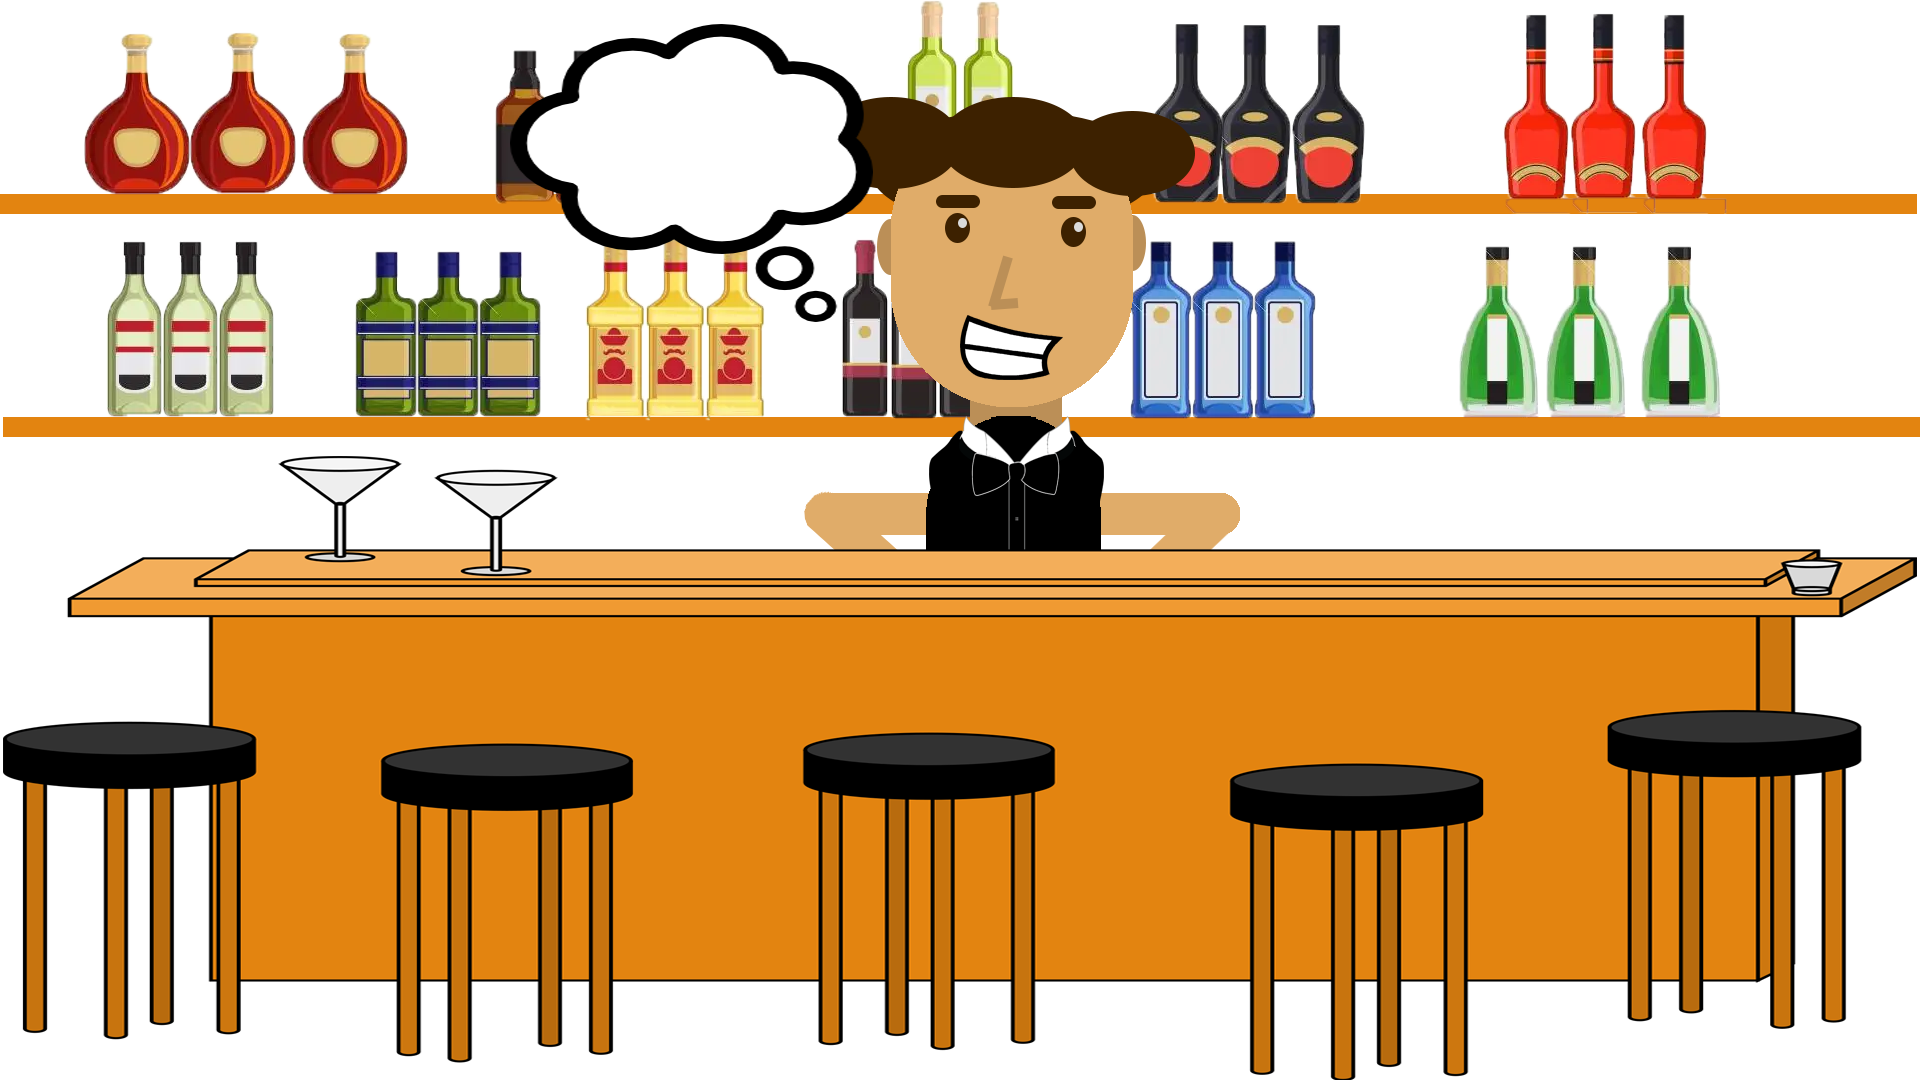
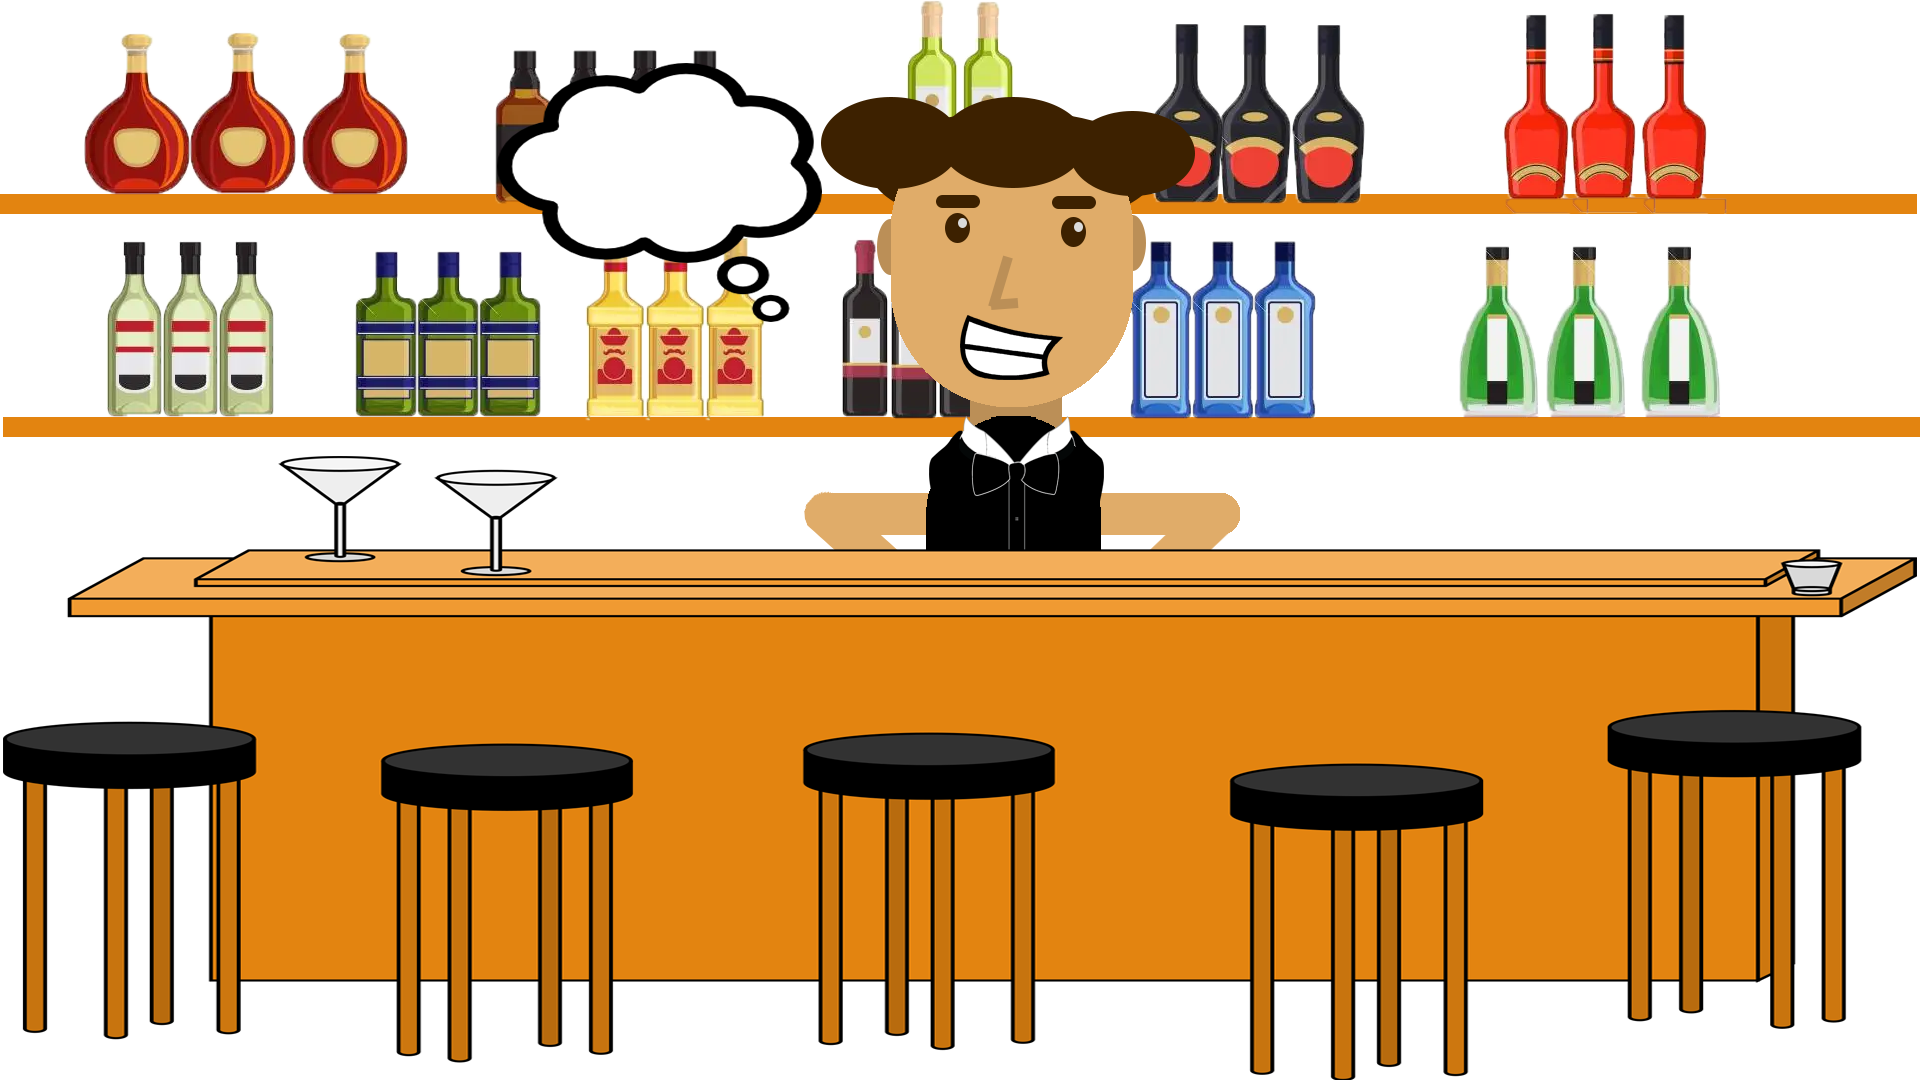
add animations

Changed region(s): [[0.25, 0.0, 0.4688, 0.3056]]

diff --git a/index.js b/index.js
@@ -19,25 +19,23 @@ drinkContainer.addEventListener('mousedown', (e) => {
     drinkContainer.classList.add('active');
     startX = e.pageX - drinkContainer.offsetLeft;
     scrollLeft = drinkContainer.scrollLeft;
-    });
-    drinkContainer.addEventListener('mouseleave', () => {
+});
+drinkContainer.addEventListener('mouseleave', () => {
     isDown = false;
     drinkContainer.classList.remove('active');
-    });
-    drinkContainer.addEventListener('mouseup', () => {
+});
+drinkContainer.addEventListener('mouseup', () => {
     isDown = false;
     drinkContainer.classList.remove('active');
-    });
-    drinkContainer.addEventListener('mousemove', (e) => {
-    if(!isDown) return;
+});
+drinkContainer.addEventListener('mousemove', (e) => {
+    if (!isDown) return;
     e.preventDefault();
     const x = e.pageX - drinkContainer.offsetLeft;
     const walk = (x - startX) * 3; //scroll-fast
     drinkContainer.scrollLeft = scrollLeft - walk;
     //   console.log(walk);
-    });
-
-
+});
 
 function searchDrink() { // search by title
     fetch(`https://www.thecocktaildb.com/api/json/v1/1/search.php?s=${inputText.value}`) // fetchs json
@@ -46,9 +44,6 @@ function searchDrink() { // search by title
         .catch(err => console.log("Search Failed: " + err))
     drinkContainer.innerHTML = ""; // reset drink container
 }
-
-
-
 
 function randomize() { // fetchs a random drink and details
     fetch('https://www.thecocktaildb.com/api/json/v1/1/random.php') // fetchs json
@@ -59,7 +54,6 @@ function randomize() { // fetchs a random drink and details
 }
 
 function showResults(result) {
-
     const drinkNames = result.drinks;
     console.log(drinkNames)
 
@@ -72,10 +66,7 @@ function showResults(result) {
         e.strMeasure4, e.strMeasure5, e.strMeasure6, e.strMeasure7, e.strMeasure8,
         e.strMeasure9, e.strMeasure10, e.strMeasure11, e.strMeasure12, e.strMeasure13,
         e.strMeasure14, e.strMeasure15]
-
-
         let { div, thumbnail, drink, category, instructions, readButton } = declareVar();
-
         div.classList = "drinkContainer"
         drinkContainer.appendChild(div)
         thumbnail.src = e.strDrinkThumb
@@ -85,13 +76,12 @@ function showResults(result) {
         div.appendChild(drink)
         category.innerText = e.strCategory
         div.appendChild(category)
-
         instructions.innerText = e.strInstructions
         instructions.style.display = "none"
         div.appendChild(instructions)
         readButton.innerHTML = "Read more"
         readButton.classList = "readButton"
-        readButton.addEventListener ('click', () => {
+        readButton.addEventListener('click', () => {
             if (instructions.style.display === "none") {
                 instructions.style.display = "inline"
 
@@ -100,29 +90,22 @@ function showResults(result) {
                 instructions.style.display = "none"
                 readButton.innerText = "Read more"
             }
-        }) // read more func
-    
-    
+        })
 
         drinkIngr.forEach((e, i) => {
             if (e !== null) {
                 let drinkIngredients = document.createElement('li')
-
-                drinkIngredients.innerText = (drinkMeas[i] != null) ? drinkMeas[i] + " " + e: " " + e
+                drinkIngredients.innerText = (drinkMeas[i] != null) ? drinkMeas[i] + " " + e : " " + e
                 drinkIngredients.classList = "drinkIngredients"
                 drinkIngredients.style.display = "none"
                 div.appendChild(drinkIngredients)
-                 readButton.addEventListener('click', () => {
+                readButton.addEventListener('click', () => {
                     drinkIngredients.style.display === "none" ?
-                        drinkIngredients.style.display = "inline" : drinkIngredients.style.display = "none" 
-               
-                }) 
+                        drinkIngredients.style.display = "inline" : drinkIngredients.style.display = "none"
+                })
             }
         })
-
-
         div.appendChild(readButton)
-
     })
 
     function declareVar() {

diff --git a/style.css b/style.css
@@ -3,19 +3,21 @@
     padding: 0;
 }
 
+body {
+    background-color: black;
+}
 .searchContainer {
     display: flex;
     align-items: center;
     flex-direction: column;
     position: absolute;
-    top: 400px;
-    left: 750px;
+    bottom: 650px;
+    left: 1450px;
 }
 
 #inputText, #searchButton, #randomButton {
-    font-size: 32px;
+    font-size: 36px;
 }
-
 
 .thumbnail-image {
     width: 300px;  
@@ -26,26 +28,33 @@
 #mainDrinkContainer {
     display: flex;
     justify-content: center;
-    flex: 0 0 33.33333%;
     position: absolute;
-    top: 26vh;
+    top: 350px;
     left: 16vw;
     overflow-x: hidden;
+    overflow-y: hidden;
     width: 70vw;
- /*    cursor: grab; */
-
+    white-space: nowrap;
+    transition: all 2s;
+    transform: scale(0.92);
+    will-change: transform;
+    user-select: none; 
+    cursor: pointer;
 }
 
 .drinkContainer {
     display: flex;
     flex-direction: column;
     align-items: center;
-/*     border: 1px solid black;  */
     padding: 1vw;
     font-size: 24px;
     justify-content: center;
+    height: 20vw;
 }
 
+.drinkContainer:hover {
+    transform: scale(1.3)
+}
 .recipe {
     display: flex;
 }
@@ -58,20 +67,53 @@
 .bartenderImage {
     width: 80vw;
     height: 80vh;
+
 }
 
-.barText {
-    font-size: 24px;
-    font-weight: bold;
+.bartenderImage2 {
     position: absolute;
-    top:  11vh;
-    left: 34vw;
+    z-index: 0;
+    width: 80vw;
+    height: 80vh;
+    transition: opacity ;
 }
 
-/* .instructions {
+.bartenderImage2:hover {
     display: none;
-} */
+
+}
 
 .readButton {
     font-size: 0.8vw;
+}
+
+.barText {
+    position:relative;
+    line-height:2em;
+    overflow:hidden;
+    /* for demo purpose */
+    width:300px;
+    margin:0 auto;
+    font-size: 1.05vw;
+    font-weight: bolder;
+    position: absolute;
+    top:  10vh;
+    left: 34vw;
+    white-space: nowrap;
+}
+.fadingEffect {
+    position:absolute;
+    top:0; bottom:0; right:0;
+    width:0%;
+    background:white;
+    animation-iteration-count: 1;
+    animation: showHide  1s  alternate ease-in;
+
+}
+
+@keyframes showHide {
+    0% {width:100%}
+    40% {width:0%}
+    60% {width:0%;}
+    100% {width:0%;}
 }

diff --git a/index.html b/index.html
@@ -13,7 +13,10 @@
 
     <figure class="barContainer">
        <img src="bartenderCloudBox.png" class="bartenderImage">
-        <figcaption class="barText">What can I get you?</figcaption>
+       <img src="bartenderCloudBox2.png" class="bartenderImage2">
+        <figcaption class="barText">What can i get you?
+        <div class="fadingEffect"></div>
+        </figcaption>
     </figure>
 
 
